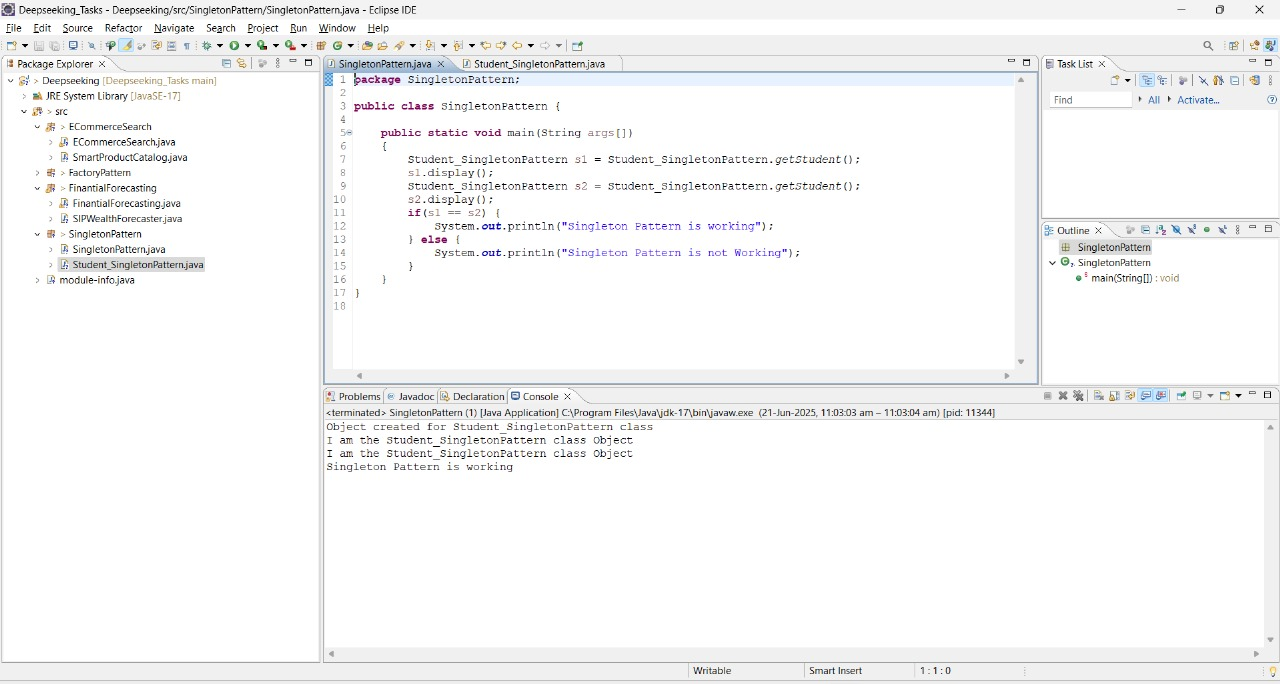
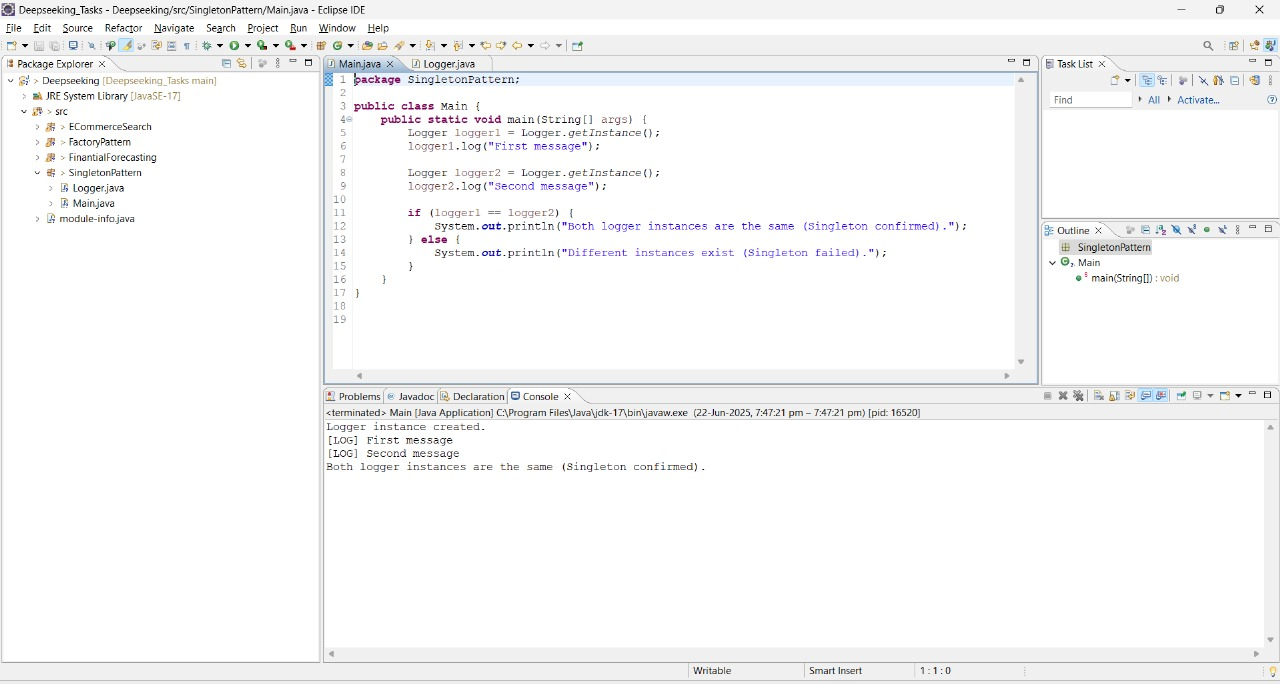
Week-1 Solutions ReUpdate

diff --git a/Week-1/factoryPattern/Main.java b/Week-1/factoryPattern/Main.java
@@ -1,0 +1,17 @@
+package FactoryPattern;
+
+public class Main {
+    public static void main(String[] args) {
+        DocumentFactory wordFactory = new WordDocumentFactory();
+        Document wordDoc = wordFactory.createDocument();
+        wordDoc.open();
+
+        DocumentFactory pdfFactory = new PdfDocumentFactory();
+        Document pdfDoc = pdfFactory.createDocument();
+        pdfDoc.open();
+
+        DocumentFactory excelFactory = new ExcelDocumentFactory();
+        Document excelDoc = excelFactory.createDocument();
+        excelDoc.open();
+    }
+}

diff --git a/Week-1/singletonPattern/Main.java b/Week-1/singletonPattern/Main.java
@@ -1,0 +1,18 @@
+package SingletonPattern;
+
+public class Main {
+    public static void main(String[] args) {
+        Logger logger1 = Logger.getInstance();
+        logger1.log("First message");
+
+        Logger logger2 = Logger.getInstance();
+        logger2.log("Second message");
+
+        if (logger1 == logger2) {
+            System.out.println("Both logger instances are the same (Singleton confirmed).");
+        } else {
+            System.out.println("Different instances exist (Singleton failed).");
+        }
+    }
+}
+

diff --git a/Week-1/singletonPattern/Logger.java b/Week-1/singletonPattern/Logger.java
@@ -1,0 +1,20 @@
+package SingletonPattern;
+
+public class Logger {
+    private static Logger instance;
+
+    private Logger() {
+        System.out.println("Logger instance created.");
+    }
+
+    public static Logger getInstance() {
+        if (instance == null) {
+            instance = new Logger();
+        }
+        return instance;
+    }
+
+    public void log(String message) {
+        System.out.println("[LOG] " + message);
+    }
+}

diff --git a/Week-1/factoryPattern/ExcelDocumentFactory.java b/Week-1/factoryPattern/ExcelDocumentFactory.java
@@ -1,0 +1,7 @@
+package FactoryPattern;
+
+public class ExcelDocumentFactory extends DocumentFactory {
+    public Document createDocument() {
+        return new ExcelDocument();
+    }
+}

diff --git a/Week-1/factoryPattern/PdfDocumentFactory.java b/Week-1/factoryPattern/PdfDocumentFactory.java
@@ -1,0 +1,8 @@
+package FactoryPattern;
+
+
+public class PdfDocumentFactory extends DocumentFactory {
+    public Document createDocument() {
+        return new PdfDocument();
+    }
+}

diff --git a/Week-1/factoryPattern/WordDocumentFactory.java b/Week-1/factoryPattern/WordDocumentFactory.java
@@ -1,0 +1,7 @@
+package FactoryPattern;
+
+public class WordDocumentFactory extends DocumentFactory {
+    public Document createDocument() {
+        return new WordDocument();
+    }
+}

diff --git a/Week-1/factoryPattern/ExcelDocument.java b/Week-1/factoryPattern/ExcelDocument.java
@@ -1,0 +1,7 @@
+package FactoryPattern;
+
+public class ExcelDocument implements Document {
+    public void open() {
+        System.out.println("Opening Excel Document");
+    }
+}

diff --git a/Week-1/factoryPattern/WordDocument.java b/Week-1/factoryPattern/WordDocument.java
@@ -1,0 +1,7 @@
+package FactoryPattern;
+
+public class WordDocument implements Document {
+    public void open() {
+        System.out.println("Opening Word Document");
+    }
+}

diff --git a/Week-1/factoryPattern/PdfDocument.java b/Week-1/factoryPattern/PdfDocument.java
@@ -1,0 +1,7 @@
+package FactoryPattern;
+
+public class PdfDocument implements Document {
+    public void open() {
+        System.out.println("Opening PDF Document");
+    }
+}

diff --git a/Week-1/factoryPattern/DocumentFactory.java b/Week-1/factoryPattern/DocumentFactory.java
@@ -1,0 +1,5 @@
+package FactoryPattern;
+
+public abstract class DocumentFactory {
+    public abstract Document createDocument();
+}

diff --git a/Week-1/factoryPattern/Document.java b/Week-1/factoryPattern/Document.java
@@ -1,0 +1,5 @@
+package FactoryPattern;
+
+public interface Document {
+    void open();
+}
